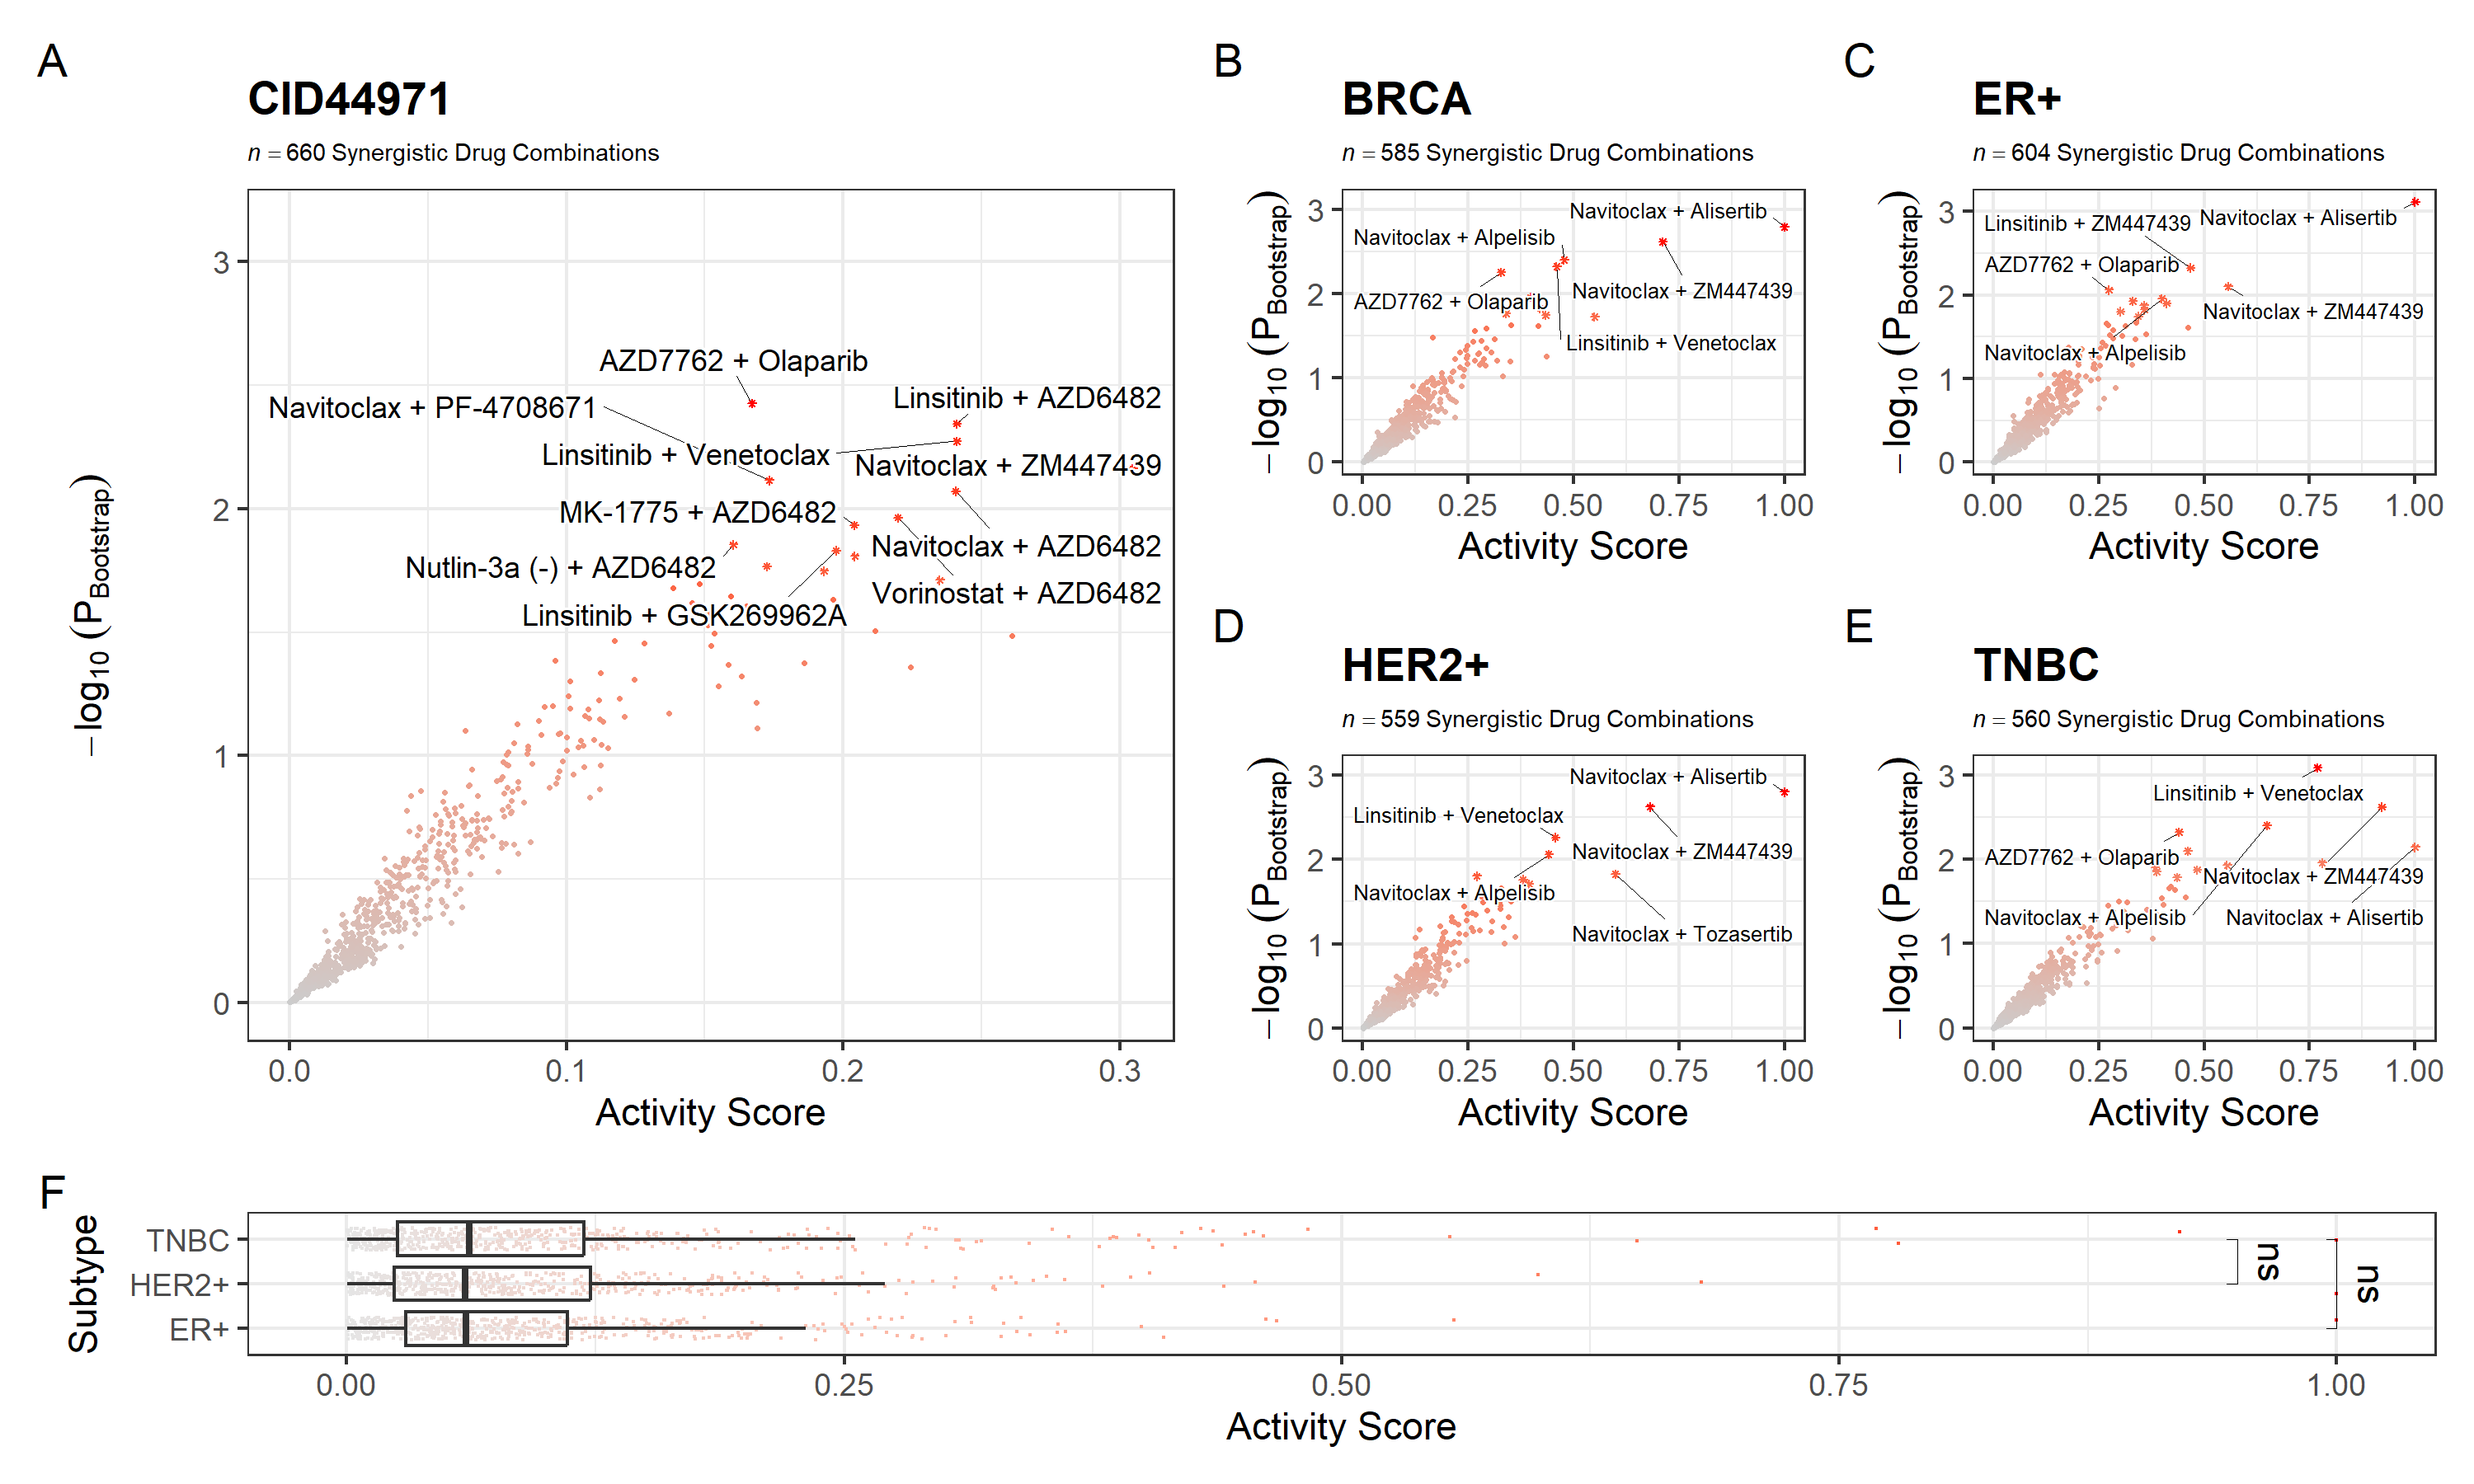
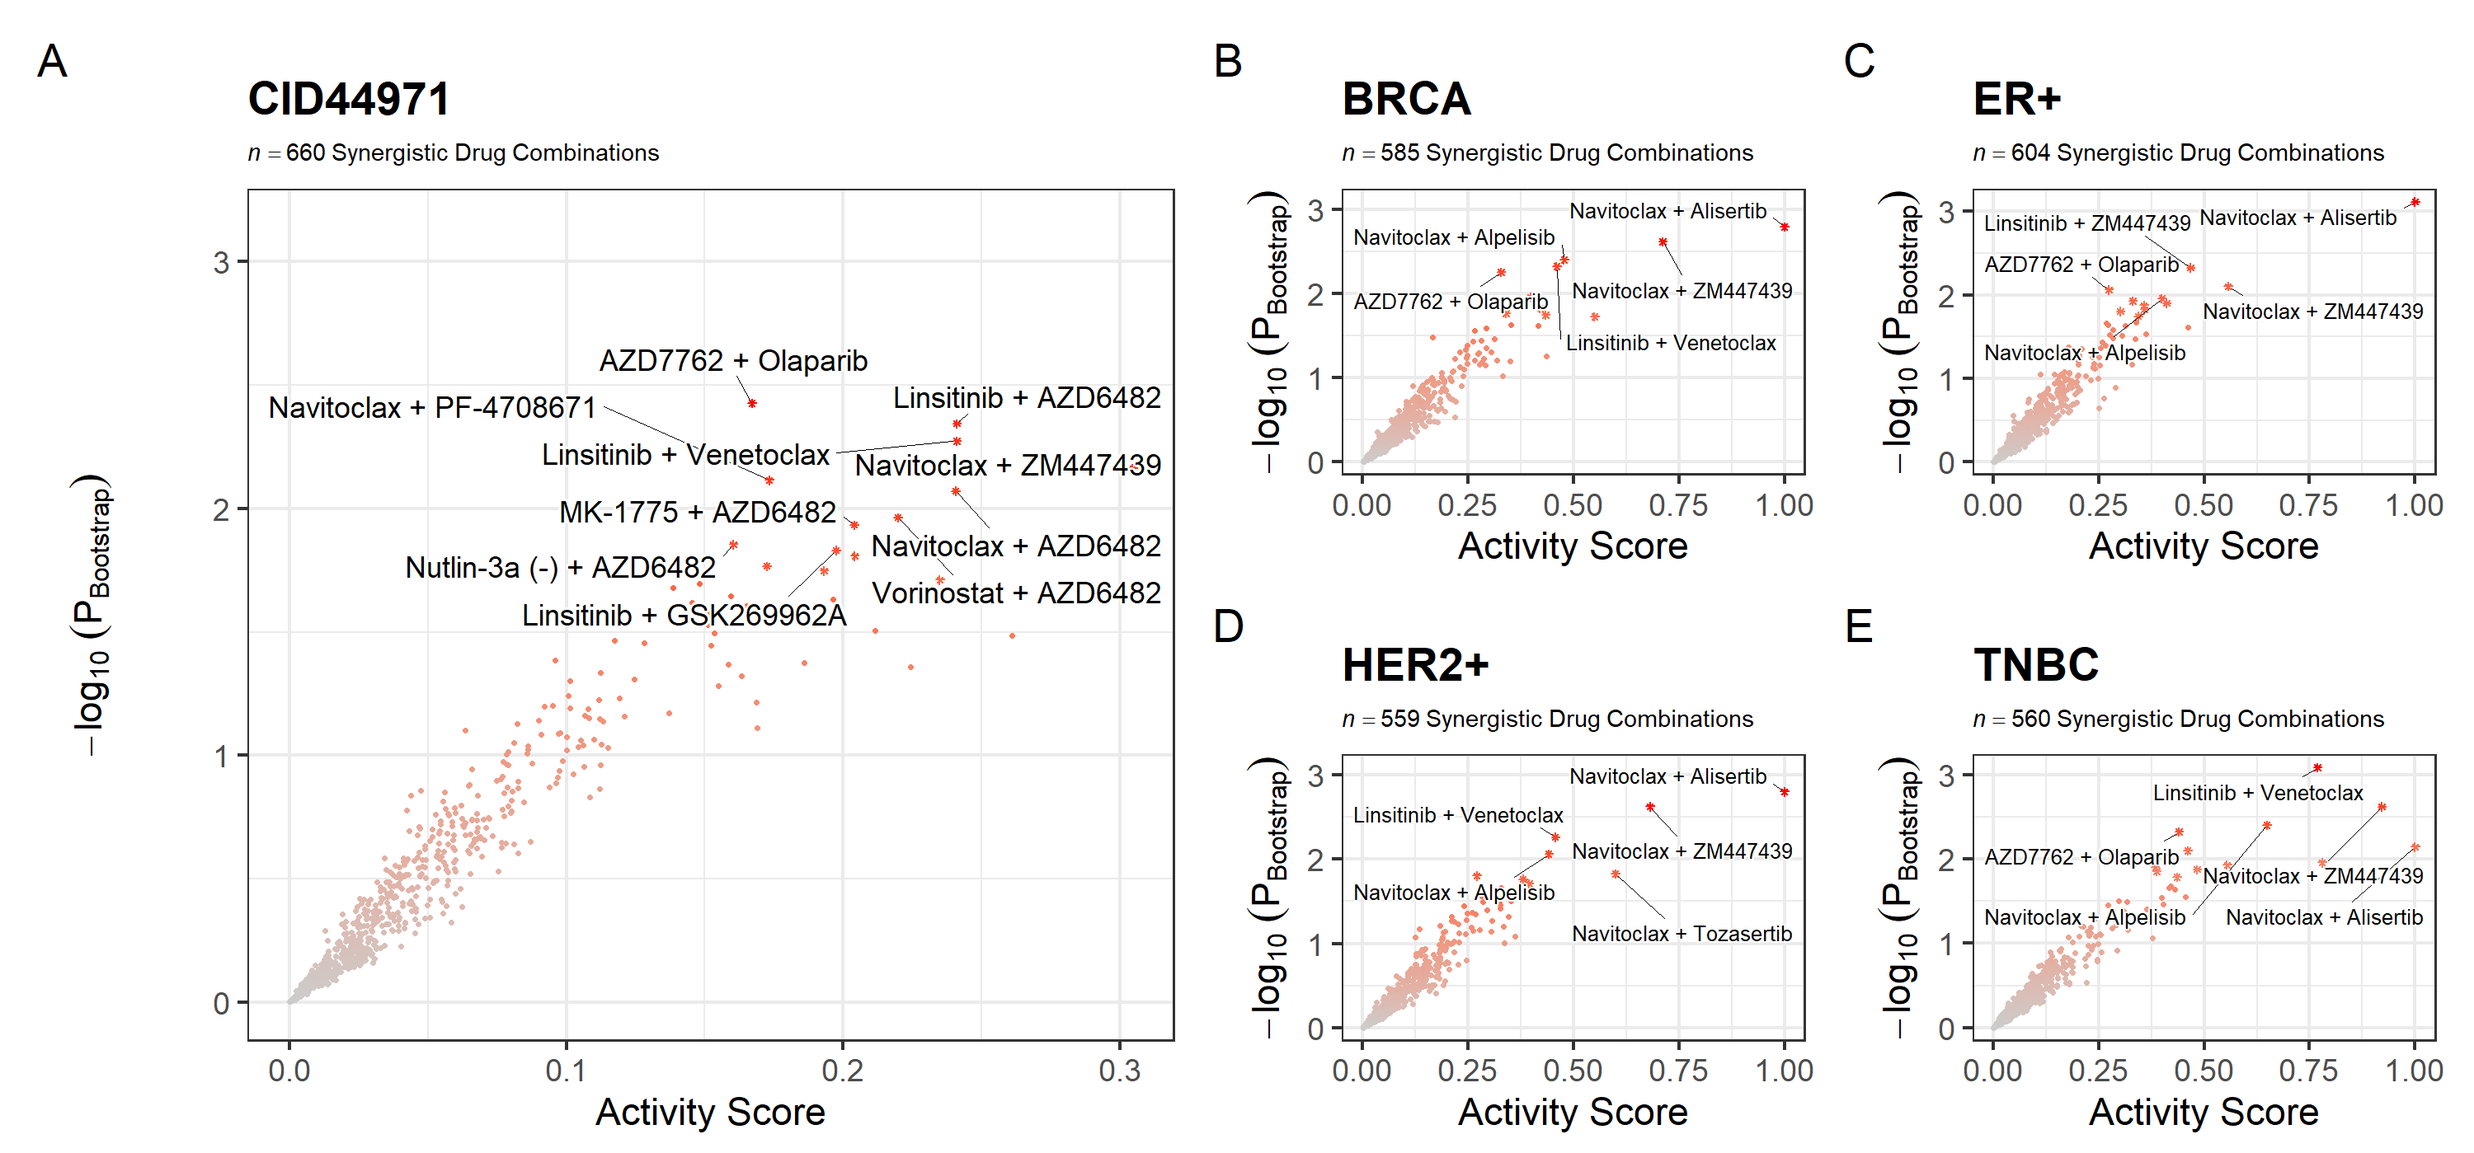
data links

diff --git a/data/README.md b/data/README.md
@@ -1,0 +1,11 @@
+The following public datasets were used in this study:
+
+* The transcriptionally profile of 35,276 individual cells from 32 breast cancer cell lines reported by Gambardella, G., et al. *"A single-cell atlas of breast cancer cell lines to study tumour heterogeneity and drug response."* Nature Communications (2022). Accessed through: DOI, record: [10.6084/m9.figshare.15022698](https://figshare.com/ndownloader/files/28893384)
+* The transcriptionally profile of single cells from cell lines from other cancer types reported by Kinker, Gabriela, et al. "Pan-cancer single-cell RNA-seq identifies recurring programs of cellular heterogeneity." Nature Genetics (2020) 52, 1208-1218 (61). 
+Accessed through: GEO, accession number [GSE157220] 
+* The transcriptional profile of 14,372 wild-type cells from the MCF7 cell line reported by Ben-David, Uri, et al. *"Genetic and transcriptional evolution alters cancer cell line drug response."* Nature 560.7718 (2018): 325-330. Accessed through: GEO, accession number: [GSE114459](https://www.ncbi.nlm.nih.gov/geo/query/acc.cgi?acc=GSE114459)
+* The transcriptional profile of 491 single-cells derived from the T47D cell line with a CRISPR knockout of the *CDH1* gene reported by Chen, Fangyuan, et al. *"Single-cell transcriptomic heterogeneity in invasive ductal and lobular breast cancer cells."* Cancer research 81.2 (2021): 268-281. Accessed through:  GEO, accession number: [GSE144320](https://www.ncbi.nlm.nih.gov/geo/query/acc.cgi?acc=GSE144320)
+* The transcriptional profile of 131 single-cells derived from the BT474 cell line and treated with 1 uM of Lapatinib for 10 days reported by Oren, Yaara, et al. *"Cycling cancer persister cells arise from lineages with distinct programs."* Nature 596.7873 (2021): 576-582. Accessed through: GEO, accession number: [GSE150949](https://www.ncbi.nlm.nih.gov/geo/query/acc.cgi?acc=GSE150949)
+* The transcriptional profile of 130,246 annotated single cells from 26 primary tumors reported by Wu, Sunny Z., et al. *"A single-cell and spatially resolved atlas of human breast cancers."* Nature genetics 53.9 (2021): 1334-1347. Accessed through: GEO, accession number: [GSE176078](https://www.ncbi.nlm.nih.gov/geo/query/acc.cgi?acc=GSE176078)
+* The synergistic effect, potency and efficacy of 2,025 clinically relevant two-drug combinations for 51 breast cancer, 45 colorectal and 29 pancreatic cell lines reported by Jaaks, Patricia, et al. *"Effective drug combinations in breast, colon and pancreatic cancer cells."* Nature (2022): 1-8. Accessed through: DOI, record: [10.6084/m9.figshare.19141928](https://doi.org/10.6084/m9.figshare.19141928.v1)
+* Preprocessed data of 15,681 single-cell transcriptomes aggregated from 5 pancreatic cancer islet datasets reported by Lotfollahi, M., et al (2021) “Mapping single-cell data to reference atlases by transfer learning.” Nat Biotechnol 40, 121–130 (2022). (https://doi.org/10.1038/s41587-021-01001-7)
